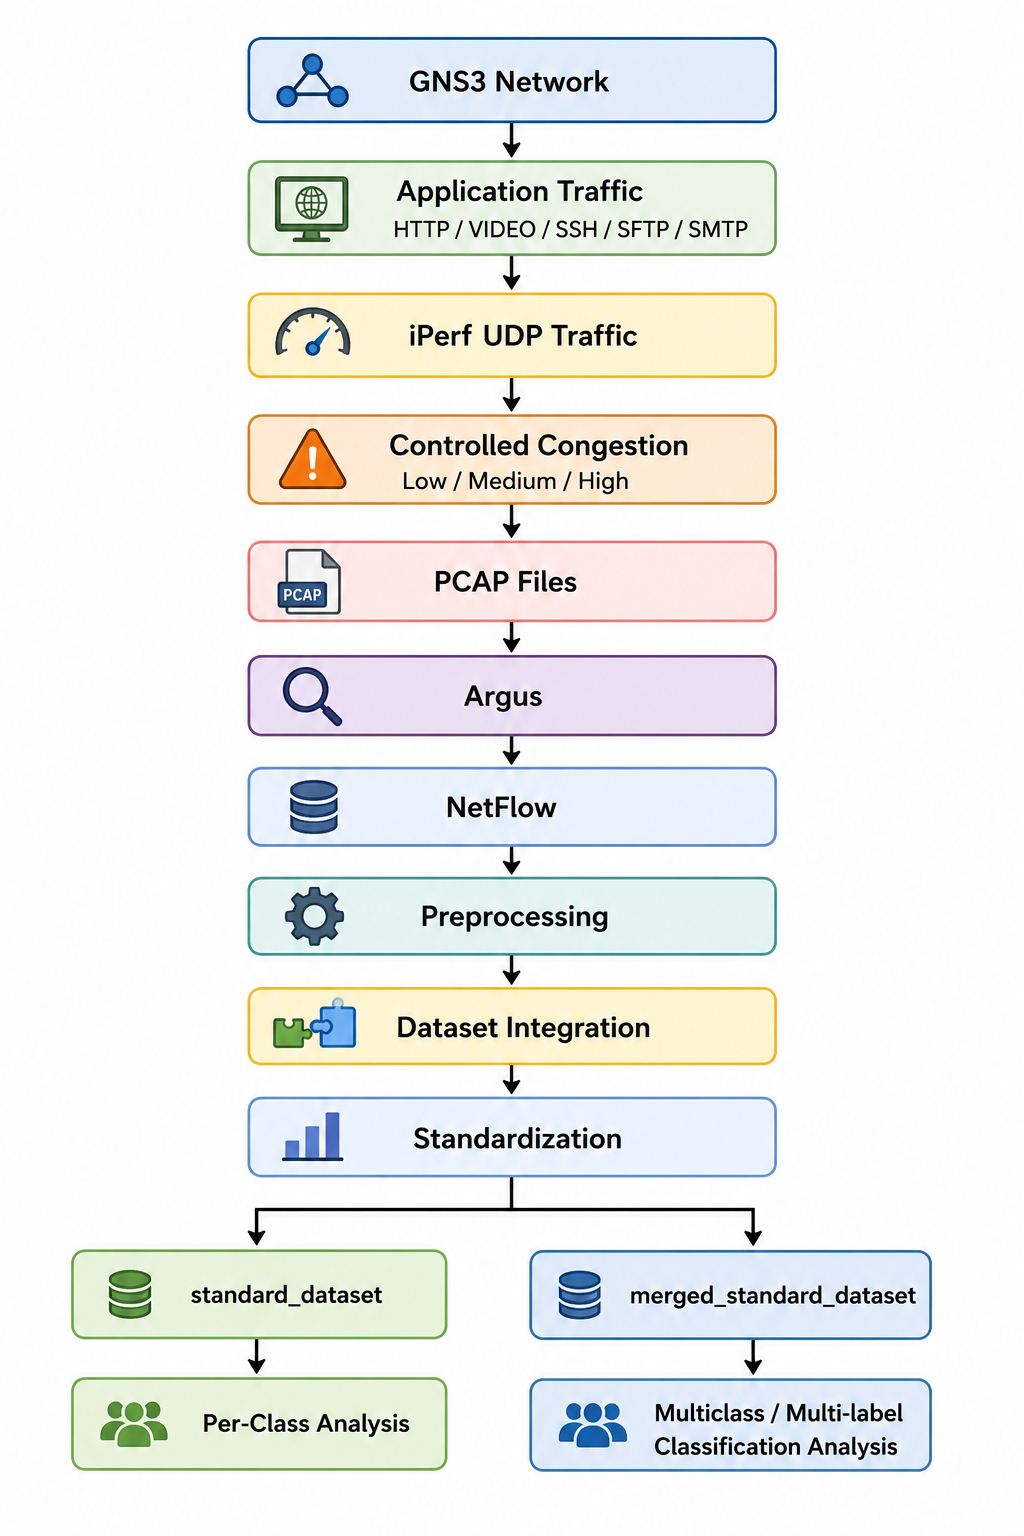
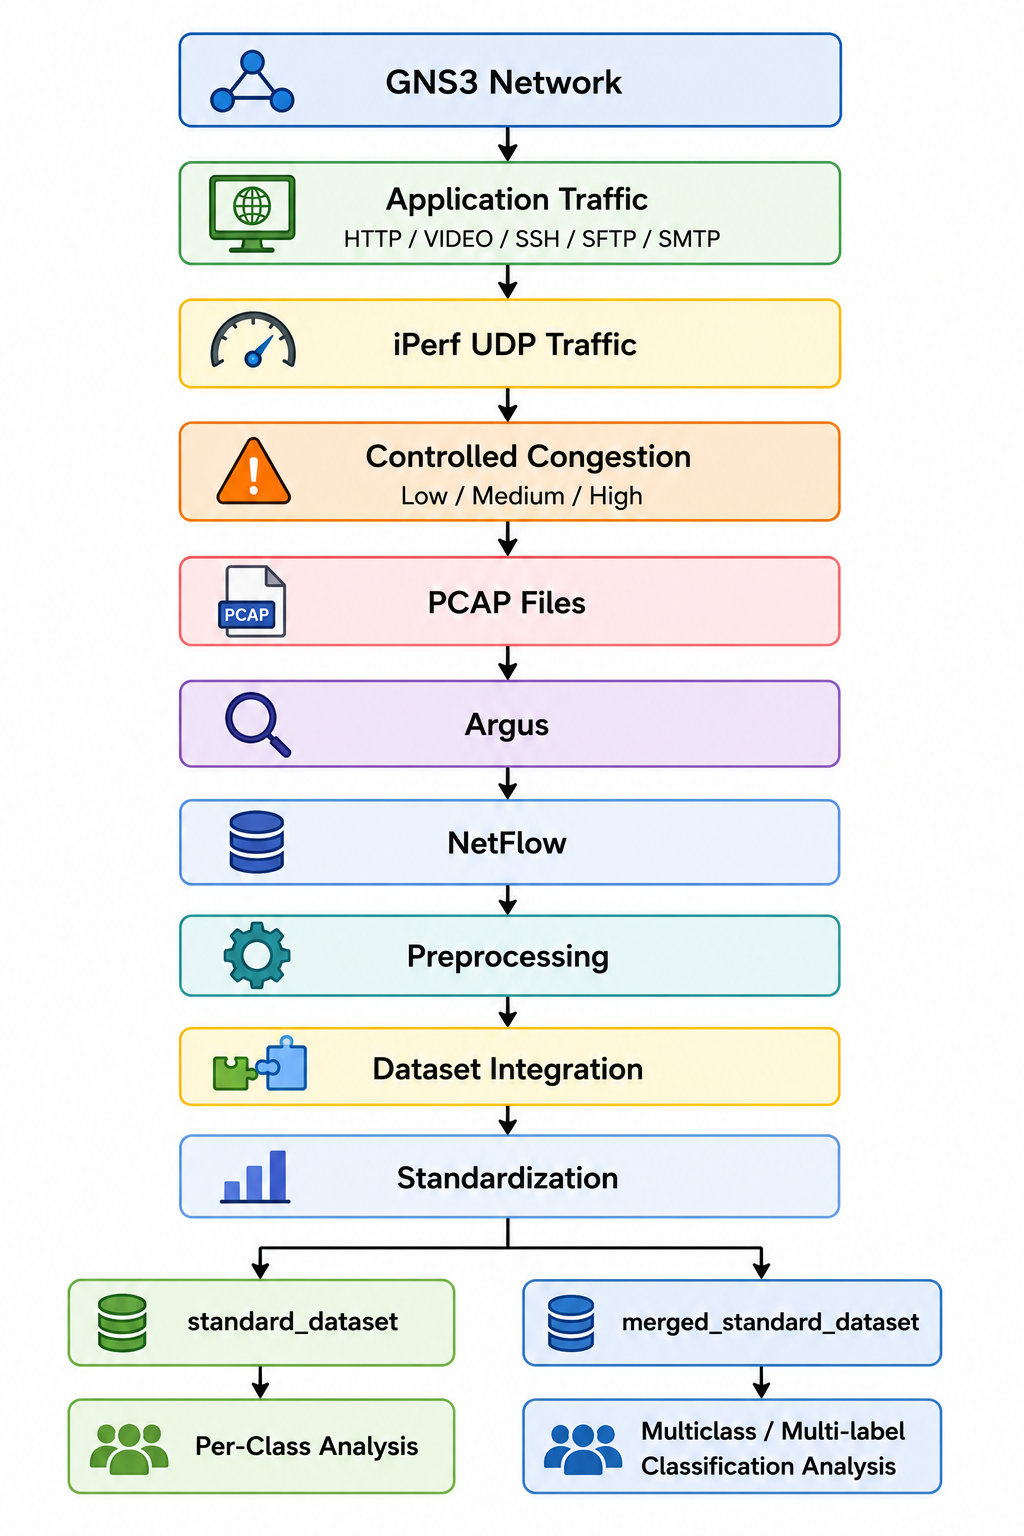
Modify ReadME Add dataset pipline image

diff --git a/README.md b/README.md
@@ -198,7 +198,9 @@ The resulting `merged_standard_dataset` is intended for experiments involving mu
 
 The complete dataset generation and processing pipeline is:
 
-![Processing Pipline](images/Dataset_Workflow.png)
+<p align="center">
+  <img src="images/Dataset_Workflow.png" alt="Processing Pipeline" height= "600" width="400">
+</p>
 
 ## Dataset Structure
 
